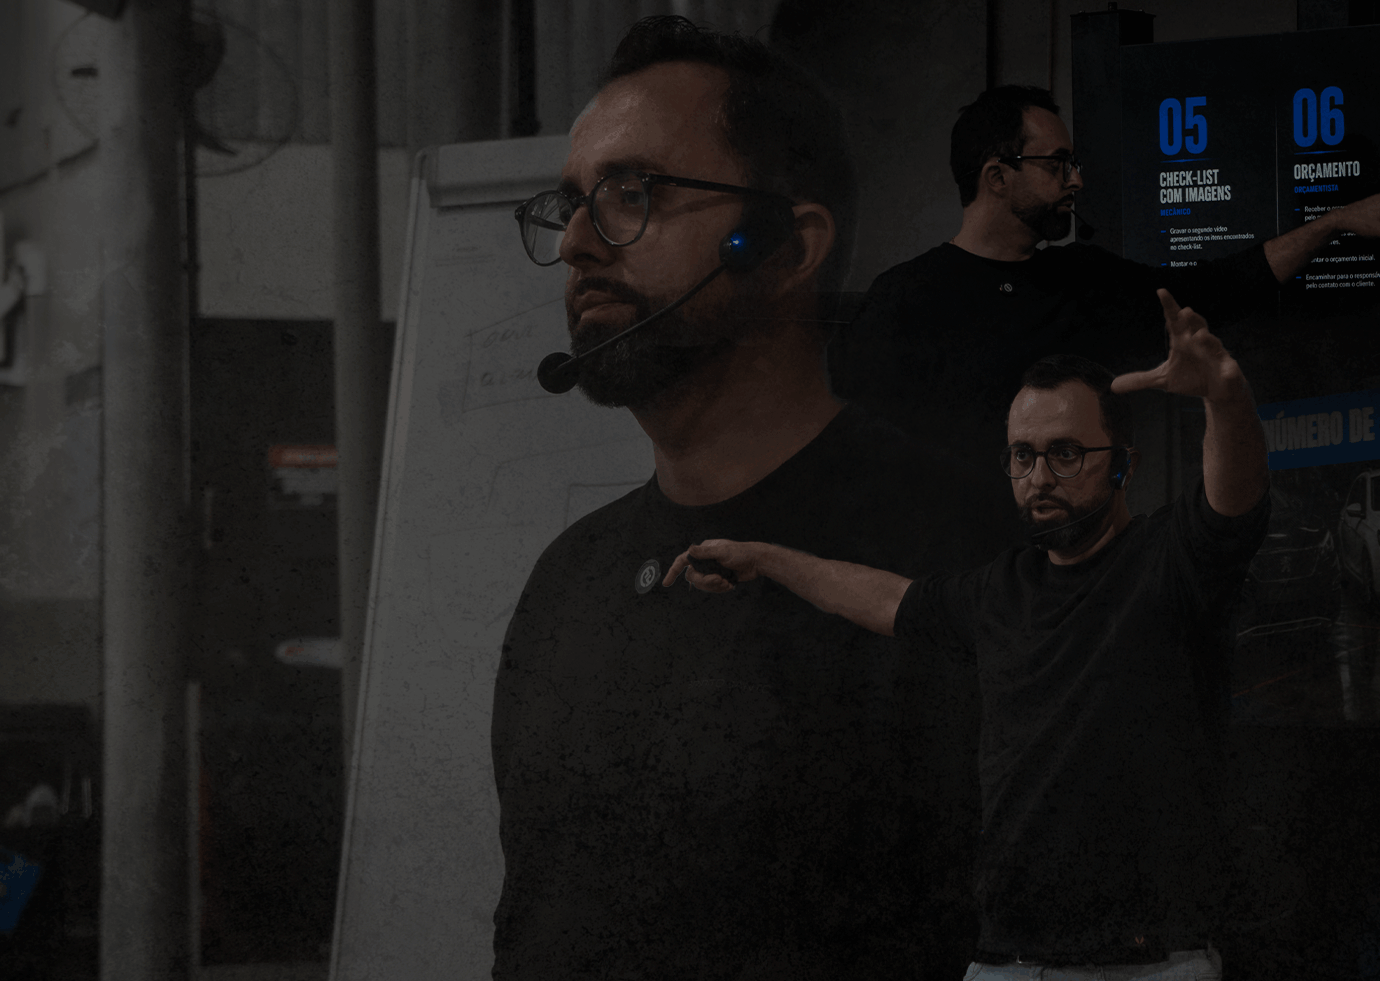
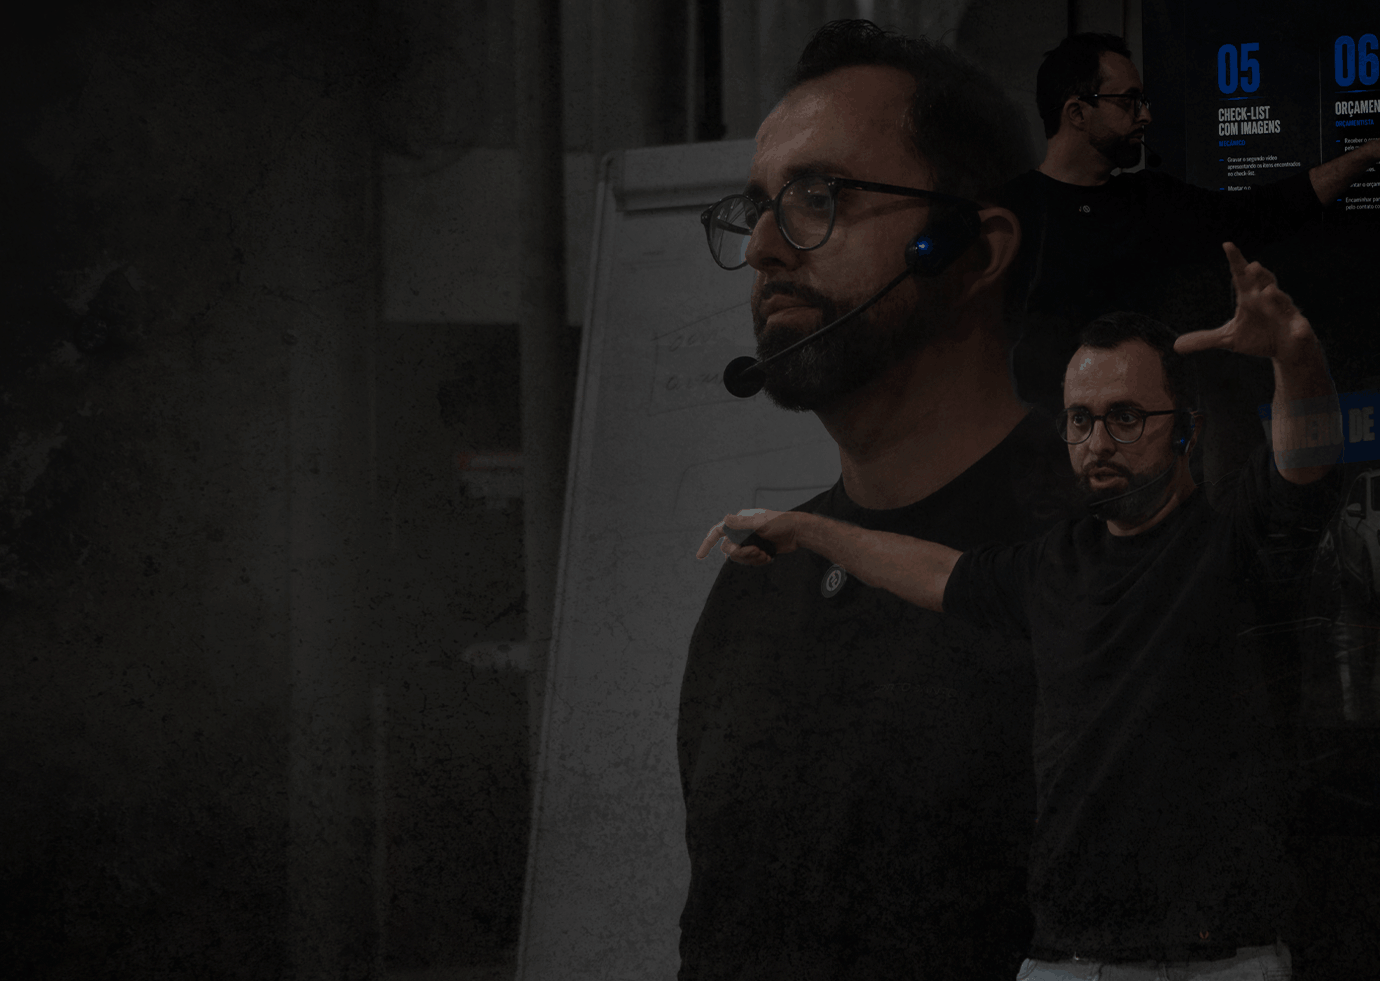
atualização

diff --git a/app/globals.css b/app/globals.css
@@ -1316,7 +1316,7 @@ a:focus-visible, button:focus-visible {
     background:
       linear-gradient(90deg, rgba(4,5,6,.22) 0%, rgba(4,5,6,.08) 48%, rgba(4,5,6,.38) 100%),
       linear-gradient(0deg, rgba(4,5,6,.5) 0%, transparent 45%),
-      url("/CAPA%20VENDA%20DOBRA1.png") center / cover no-repeat;
+      url("/CAPA%20VENDA%20DOBRA1.png?v=20260724-101858") center / cover no-repeat;
   }
 
   /* faixa de reforço da proposta, logo após a primeira dobra da LP1 */
@@ -1571,7 +1571,7 @@ a:focus-visible, button:focus-visible {
         linear-gradient(180deg, rgba(5,8,10,.18) 0%, rgba(5,8,10,.34) 30%, rgba(5,8,10,.78) 66%, #0d1419 100%),
         linear-gradient(90deg, rgba(5,8,10,.62) 0%, rgba(5,8,10,.12) 78%, rgba(5,8,10,.22) 100%),
         radial-gradient(circle at 75% 20%, rgba(4,149,240,.14), transparent 34%),
-        url("/CAPA%20VENDA%20DOBRA1.png") 72% top / auto 100% no-repeat;
+        url("/CAPA%20VENDA%20DOBRA1.png?v=20260724-101858") 72% top / auto 100% no-repeat;
     }
 
     .destrave-theme--lp1 .destrave-hero--with-cover::after {
